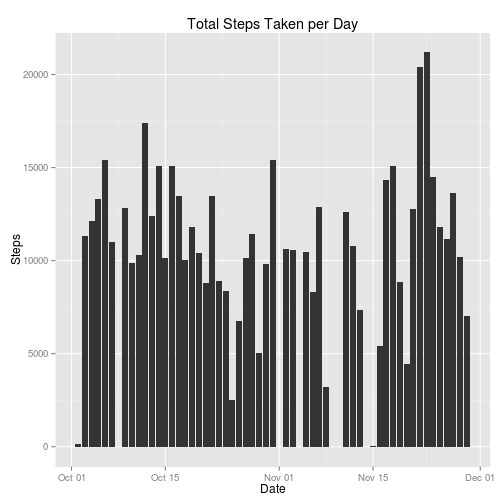
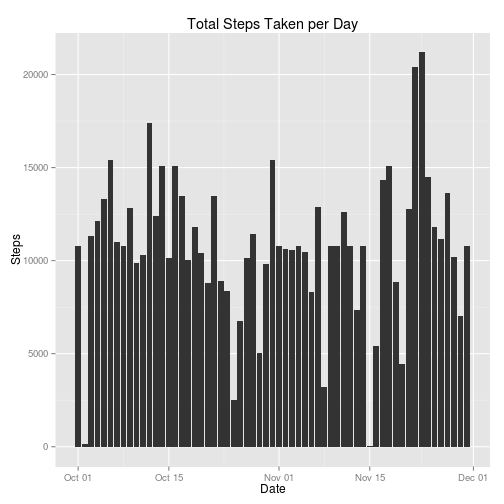
Fixed qplot code

diff --git a/PA1_template.html b/PA1_template.html
@@ -207,8 +207,9 @@ library(ggplot2)
 
 <pre><code class="r">total_steps &lt;- aggregate(steps ~ date, data = data, FUN = sum)
 qplot(
-    total_steps$date,
-    total_steps$steps,
+    x = date,
+    y = steps,
+    data = total_steps,
     geom = &quot;histogram&quot;,
     stat = &quot;identity&quot;,
     main = &quot;Total Steps Taken per Day&quot;,
@@ -238,8 +239,9 @@ qplot(
 
 <pre><code class="r">interval_steps &lt;- aggregate(steps ~ interval, data = data, FUN = mean)
 qplot(
-    interval_steps$interval,
-    interval_steps$steps,
+    x = interval,
+    y = steps,
+    data = interval_steps,
     geom = &quot;line&quot;,
     stat = &quot;identity&quot;,
     main = &quot;Average Steps Taken per Interval&quot;,
@@ -282,8 +284,9 @@ for(row in 1:nrow(imputed_data)) {
 
 <pre><code class="r">total_imputed_steps &lt;- aggregate(steps ~ date, data = imputed_data, FUN = sum)
 qplot(
-    total_steps$date,
-    total_steps$steps,
+    x = date,
+    y = steps,
+    data = total_imputed_steps,
     geom = &quot;histogram&quot;,
     stat = &quot;identity&quot;,
     main = &quot;Total Steps Taken per Day&quot;,
@@ -291,7 +294,7 @@ qplot(
     ylab = &quot;Steps&quot;)
 </code></pre>
 
[2 lines of base64/hex data omitted]
 
 <p>Mean Steps per Day (Imputed Data)</p>
 
